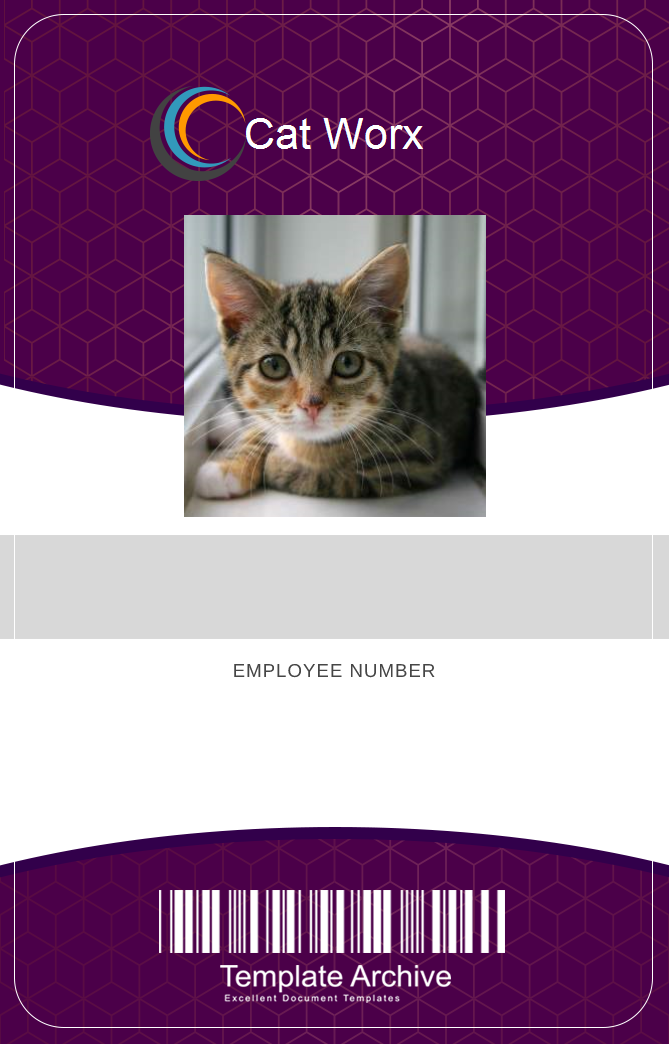
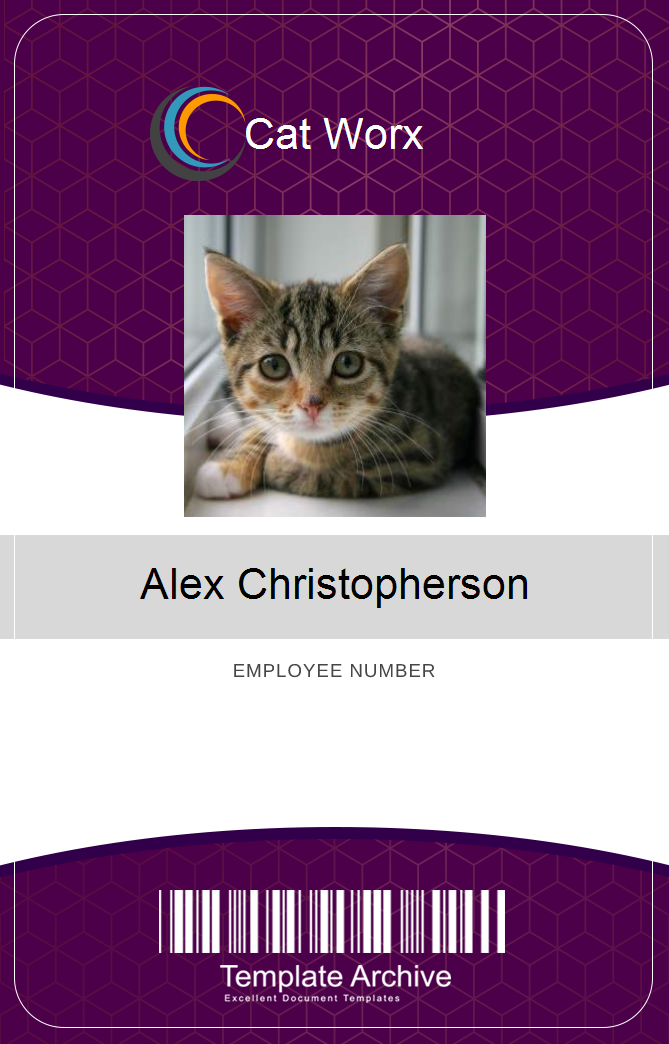
employee name prints on badge

Changed region(s): [[0.3587, 0.5211, 0.8072, 0.5824], [0.2093, 0.5211, 0.3288, 0.5824]]

diff --git a/Util.cs b/Util.cs
@@ -114,6 +114,18 @@ namespace CatWorx.BadgeMaker
                     );
 
                     // Write the employee name
+                    graphic.DrawString(
+                        employees[i].GetName(),
+                        font,
+                        brush,
+                        new Rectangle(
+                            EMPLOYEE_NAME_START_X,
+                            EMPLOYEE_NAME_START_Y,
+                            BADGE_WIDTH,
+                            EMPLOYEE_NAME_HEIGHT
+                        ),
+                        format
+                    );
 
                     // Write the employee ID
 
